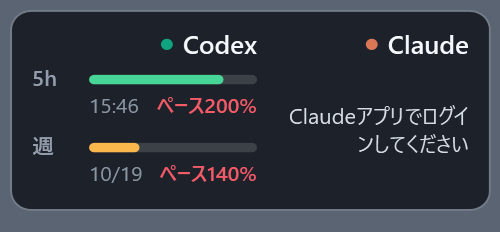
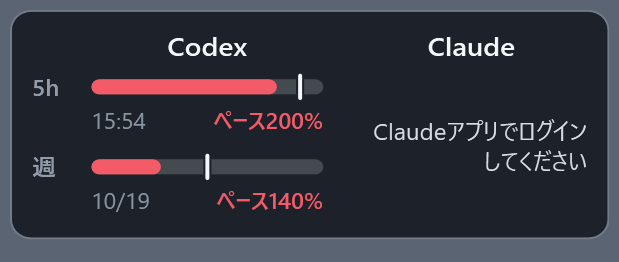
Show remaining usage and pace in one gauge
- Replace the progress bar with a gauge whose fill is the remaining usage
  and whose white marker is the remaining time until reset; the fill is
  colored by pace, so staying right of the marker means on track
- Center the provider titles and drop the colored dot icons
- Enlarge text slightly and widen columns to fit
- Explain the gauge in the tooltip and README, and refresh preview images

diff --git a/CodexUsageWidget.App/MainWindow.xaml b/CodexUsageWidget.App/MainWindow.xaml
@@ -31,16 +31,16 @@
                     <RowDefinition Height="Auto" SharedSizeGroup="Renewal"/>
                 </Grid.RowDefinitions>
                 <TextBlock Grid.Row="1" Text="5h" Foreground="{StaticResource TextLabel}"
-                           FontSize="11" FontWeight="SemiBold" Margin="0,1,0,0"
+                           FontSize="12" FontWeight="SemiBold" Margin="0,3,0,0"
                            Visibility="{Binding Options.ShowFiveHour, Converter={StaticResource BoolToVisibility}}"/>
                 <TextBlock Grid.Row="2" Text="週" Foreground="{StaticResource TextLabel}"
-                           FontSize="11" FontWeight="SemiBold" Margin="0,1,0,0"
+                           FontSize="12" FontWeight="SemiBold" Margin="0,3,0,0"
                            Visibility="{Binding Options.ShowWeekly, Converter={StaticResource BoolToVisibility}}"/>
                 <TextBlock Grid.Row="3" Text="{Binding ModelRowLabel, Mode=OneWay}" Foreground="{StaticResource TextLabel}"
-                           FontSize="11" FontWeight="SemiBold" Margin="0,1,0,0"
+                           FontSize="12" FontWeight="SemiBold" Margin="0,3,0,0"
                            Visibility="{Binding ShowModelRow, Converter={StaticResource BoolToVisibility}}"/>
                 <TextBlock Grid.Row="4" Text="更新" Foreground="{StaticResource TextLabel}"
-                           FontSize="11" Margin="0,3,0,2" VerticalAlignment="Center"
+                           FontSize="12" Margin="0,3,0,2" VerticalAlignment="Center"
                            Visibility="{Binding ShowRenewalRow, Converter={StaticResource BoolToVisibility}}"/>
             </Grid>
 
@@ -52,7 +52,7 @@
                 </ItemsControl.ItemsPanel>
                 <ItemsControl.ItemTemplate>
                     <DataTemplate>
-                        <Grid MinWidth="84" Margin="16,0,0,0" Background="Transparent"
+                        <Grid MinWidth="116" Margin="16,0,0,0" Background="Transparent"
                               Visibility="{Binding IsEnabled, Converter={StaticResource BoolToVisibility}}"
                               ToolTip="{Binding DetailText, Mode=OneWay}" ToolTipService.ShowDuration="30000">
                             <Grid.RowDefinitions>
@@ -63,12 +63,9 @@
                                 <RowDefinition Height="Auto" SharedSizeGroup="Renewal"/>
                             </Grid.RowDefinitions>
 
-                            <StackPanel Orientation="Horizontal" HorizontalAlignment="Right" Margin="0,0,0,1">
-                                <Ellipse Width="6" Height="6" Fill="{Binding BrandBrush}"
-                                         Margin="0,1,5,0" VerticalAlignment="Center"/>
-                                <TextBlock Text="{Binding Name}" Foreground="{StaticResource TextPrimary}"
-                                           FontSize="13" FontWeight="SemiBold"/>
-                            </StackPanel>
+                            <TextBlock Text="{Binding Name}" Foreground="{StaticResource TextPrimary}"
+                                       FontSize="14" FontWeight="SemiBold"
+                                       HorizontalAlignment="Center" Margin="0,0,0,2"/>
 
                             <ContentControl Grid.Row="1" Content="{Binding FiveHour}" Focusable="False"
                                             ContentTemplate="{StaticResource LimitCell}">
@@ -110,7 +107,7 @@
 
                             <!-- 取得できないときは枠2つ分の場所に理由だけを出す -->
                             <TextBlock Grid.Row="1" Grid.RowSpan="2" Text="{Binding StatusMessage, Mode=OneWay}"
-                                       Foreground="#D7DDE5" FontSize="11" TextWrapping="Wrap" MaxWidth="96"
+                                       Foreground="#D7DDE5" FontSize="12" TextWrapping="Wrap" MaxWidth="110"
                                        HorizontalAlignment="Right" TextAlignment="Right"
                                        VerticalAlignment="Center" Margin="0,6,0,6">
                                 <TextBlock.Style>
@@ -146,7 +143,7 @@
                             </ContentControl>
 
                             <TextBlock Grid.Row="4" Text="{Binding RenewalText, Mode=OneWay}"
-                                       Foreground="#D7DDE5" FontSize="11" Margin="0,3,0,2"
+                                       Foreground="#D7DDE5" FontSize="12" Margin="0,3,0,2"
                                        HorizontalAlignment="Right" VerticalAlignment="Center"
                                        Visibility="{Binding DataContext.ShowRenewalRow,
                                                     RelativeSource={RelativeSource AncestorType=Window},

diff --git a/CodexUsageWidget.App/App.xaml b/CodexUsageWidget.App/App.xaml
@@ -1,6 +1,7 @@
-<Application x:Class="CodexUsageWidget.App.App"
+<Application x:Class="CodexUsageWidget.App.App"
              xmlns="http://schemas.microsoft.com/winfx/2006/xaml/presentation"
              xmlns:x="http://schemas.microsoft.com/winfx/2006/xaml"
+             xmlns:controls="clr-namespace:CodexUsageWidget.App.Controls"
              ShutdownMode="OnExplicitShutdown">
     <Application.Resources>
         <FontFamily x:Key="UiFont">Segoe UI, Yu Gothic UI</FontFamily>
@@ -10,34 +11,17 @@
         <SolidColorBrush x:Key="TextLabel" Color="#929CAA"/>
         <SolidColorBrush x:Key="TextMuted" Color="#8A95A3"/>
 
-        <Style x:Key="UsageBar" TargetType="ProgressBar">
-            <Setter Property="Height" Value="5"/>
-            <Setter Property="Minimum" Value="0"/>
-            <Setter Property="Maximum" Value="100"/>
-            <Setter Property="Template">
-                <Setter.Value>
-                    <ControlTemplate TargetType="ProgressBar">
-                        <Grid>
-                            <Border x:Name="PART_Track" Background="#24FFFFFF" CornerRadius="2.5"/>
-                            <Border x:Name="PART_Indicator" Background="{TemplateBinding Foreground}"
-                                    CornerRadius="2.5" HorizontalAlignment="Left"/>
-                        </Grid>
-                    </ControlTemplate>
-                </Setter.Value>
-            </Setter>
-        </Style>
-
-        <!-- 1つの利用枠: 残量バー・（リセット / ペース）。正確な残量%はツールチップ -->
+        <!-- 1つの利用枠: ゲージ（塗り=残り利用量、縦線=残り時間）・（リセット / ペース）。正確な残量%はツールチップ -->
         <DataTemplate x:Key="LimitCell">
-            <StackPanel Margin="0,7,0,6">
-                <ProgressBar Style="{StaticResource UsageBar}"
-                             Value="{Binding RemainingPercent, Mode=OneWay}"
-                             Foreground="{Binding AccentBrush, Mode=OneWay}"/>
-                <Grid Margin="0,4,0,0"
+            <StackPanel Margin="0,4,0,6">
+                <controls:UsageGauge Remaining="{Binding RemainingPercent, Mode=OneWay}"
+                                     TimeRemaining="{Binding TimeRemainingPercent, Mode=OneWay}"
+                                     Fill="{Binding GaugeBrush, Mode=OneWay}"/>
+                <Grid Margin="0,3,0,0"
                       Visibility="{Binding Options.ShowDetailLine, Converter={StaticResource BoolToVisibility}}">
                     <StackPanel Orientation="Horizontal" HorizontalAlignment="Left">
                         <TextBlock Text="{Binding WindowLabel, Mode=OneWay}" Foreground="{StaticResource TextMuted}"
-                                   FontSize="10.5" Margin="0,0,5,0">
+                                   FontSize="11.5" Margin="0,0,5,0">
                             <TextBlock.Style>
                                 <Style TargetType="TextBlock">
                                     <Style.Triggers>
@@ -49,11 +33,11 @@
                             </TextBlock.Style>
                         </TextBlock>
                         <TextBlock Text="{Binding ResetShortText, Mode=OneWay}" Foreground="{StaticResource TextMuted}"
-                                   FontSize="10.5"
+                                   FontSize="11.5"
                                    Visibility="{Binding Options.ShowReset, Converter={StaticResource BoolToVisibility}}"/>
                     </StackPanel>
                     <TextBlock Text="{Binding PaceShortText, Mode=OneWay}" Foreground="{Binding PaceBrush, Mode=OneWay}"
-                               FontSize="10.5" FontWeight="SemiBold" HorizontalAlignment="Right"
+                               FontSize="11.5" FontWeight="SemiBold" HorizontalAlignment="Right"
                                Visibility="{Binding Options.ShowPace, Converter={StaticResource BoolToVisibility}}"/>
                 </Grid>
             </StackPanel>

diff --git a/CodexUsageWidget.App/Controls/UsageGauge.cs b/CodexUsageWidget.App/Controls/UsageGauge.cs
@@ -1,0 +1,76 @@
+using System.Windows;
+using System.Windows.Media;
+using Brush = System.Windows.Media.Brush;
+using Brushes = System.Windows.Media.Brushes;
+using Color = System.Windows.Media.Color;
+using Size = System.Windows.Size;
+using SolidColorBrush = System.Windows.Media.SolidColorBrush;
+
+namespace CodexUsageWidget.App.Controls;
+
+/// <summary>
+/// 残量ゲージ。塗り = 残り利用量、縦線 = 残り時間。
+/// 塗りが縦線より右に伸びていれば、リセットまで今のペースで持つ（余裕）。左で止まっていれば使いすぎ。
+/// </summary>
+public sealed class UsageGauge : FrameworkElement
+{
+    private const double BarHeight = 8;
+    private const double MarkerOverhang = 3;
+    private const double MarkerWidth = 2;
+    private static readonly Brush TrackBrush = Frozen(Color.FromArgb(0x2E, 0xFF, 0xFF, 0xFF));
+    private static readonly Brush MarkerBrush = Frozen(Color.FromRgb(0xF4, 0xF7, 0xFB));
+    private static readonly Brush GapBrush = Frozen(Color.FromRgb(0x1A, 0x1E, 0x25));
+
+    public static readonly DependencyProperty RemainingProperty = DependencyProperty.Register(
+        nameof(Remaining), typeof(double), typeof(UsageGauge),
+        new FrameworkPropertyMetadata(0d, FrameworkPropertyMetadataOptions.AffectsRender));
+
+    public static readonly DependencyProperty TimeRemainingProperty = DependencyProperty.Register(
+        nameof(TimeRemaining), typeof(double), typeof(UsageGauge),
+        new FrameworkPropertyMetadata(double.NaN, FrameworkPropertyMetadataOptions.AffectsRender));
+
+    public static readonly DependencyProperty FillProperty = DependencyProperty.Register(
+        nameof(Fill), typeof(Brush), typeof(UsageGauge),
+        new FrameworkPropertyMetadata(Brushes.Gray, FrameworkPropertyMetadataOptions.AffectsRender));
+
+    /// <summary>残り利用量（0〜100）。</summary>
+    public double Remaining { get => (double)GetValue(RemainingProperty); set => SetValue(RemainingProperty, value); }
+
+    /// <summary>リセットまでの残り時間の割合（0〜100）。不明ならNaNで縦線を出さない。</summary>
+    public double TimeRemaining { get => (double)GetValue(TimeRemainingProperty); set => SetValue(TimeRemainingProperty, value); }
+
+    public Brush Fill { get => (Brush)GetValue(FillProperty); set => SetValue(FillProperty, value); }
+
+    protected override Size MeasureOverride(Size availableSize) => new(0, BarHeight + MarkerOverhang * 2);
+
+    protected override void OnRender(DrawingContext drawingContext)
+    {
+        var width = ActualWidth;
+        if (width <= 0) return;
+
+        var radius = BarHeight / 2;
+        var track = new Rect(0, MarkerOverhang, width, BarHeight);
+        drawingContext.DrawRoundedRectangle(TrackBrush, null, track, radius, radius);
+
+        var fillWidth = width * Math.Clamp(Remaining / 100d, 0d, 1d);
+        if (fillWidth > 0)
+        {
+            var fillRadius = Math.Min(radius, fillWidth / 2);
+            drawingContext.DrawRoundedRectangle(Fill, null, new Rect(0, MarkerOverhang, fillWidth, BarHeight), fillRadius, fillRadius);
+        }
+
+        if (double.IsNaN(TimeRemaining)) return;
+        var x = Math.Clamp(width * Math.Clamp(TimeRemaining / 100d, 0d, 1d), MarkerWidth / 2, width - MarkerWidth / 2);
+        var height = BarHeight + MarkerOverhang * 2;
+        // 塗りの上でも埋もれないよう、背景色の細い隙間で挟んでから白線を引く。
+        drawingContext.DrawRectangle(GapBrush, null, new Rect(x - MarkerWidth / 2 - 1, MarkerOverhang, MarkerWidth + 2, BarHeight));
+        drawingContext.DrawRoundedRectangle(MarkerBrush, null, new Rect(x - MarkerWidth / 2, 0, MarkerWidth, height), 1, 1);
+    }
+
+    private static Brush Frozen(Color color)
+    {
+        var brush = new SolidColorBrush(color);
+        brush.Freeze();
+        return brush;
+    }
+}

diff --git a/CodexUsageWidget.App/ViewModels/LimitViewModel.cs b/CodexUsageWidget.App/ViewModels/LimitViewModel.cs
@@ -1,4 +1,4 @@
-using CodexUsageWidget.App.Models;
+using CodexUsageWidget.App.Models;
 using Brush = System.Windows.Media.Brush;
 using Color = System.Windows.Media.Color;
 using SolidColorBrush = System.Windows.Media.SolidColorBrush;
@@ -18,6 +18,9 @@ public sealed class LimitViewModel : NotifyBase
     private string _percentText = "--%";
     private string _windowLabel = string.Empty;
     private Brush _accentBrush = Neutral;
+    private Brush _gaugeBrush = Neutral;
+    private double _timeRemainingPercent = double.NaN;
+    private int _windowMinutes;
     private string _paceShortText = string.Empty;
     private Brush _paceBrush = Neutral;
     private string _resetShortText = string.Empty;
@@ -35,6 +38,10 @@ public sealed class LimitViewModel : NotifyBase
     /// <summary>行ラベルと長さが違う枠（例: 30日枠）のときだけ出す。</summary>
     public string WindowLabel { get => _windowLabel; private set => Set(ref _windowLabel, value); }
     public Brush AccentBrush { get => _accentBrush; private set => Set(ref _accentBrush, value); }
+    /// <summary>ゲージの塗り色。ペースが分かればペースの色、まだ分からなければ残量の色。</summary>
+    public Brush GaugeBrush { get => _gaugeBrush; private set => Set(ref _gaugeBrush, value); }
+    /// <summary>リセットまでの残り時間の割合（0〜100）。ゲージの縦線の位置。不明ならNaN。</summary>
+    public double TimeRemainingPercent { get => _timeRemainingPercent; private set => Set(ref _timeRemainingPercent, value); }
     public string PaceShortText { get => _paceShortText; private set => Set(ref _paceShortText, value); }
     public Brush PaceBrush { get => _paceBrush; private set => Set(ref _paceBrush, value); }
     /// <summary>24時間以内なら時刻、それより先なら日付だけ。</summary>
@@ -57,7 +64,10 @@ public sealed class LimitViewModel : NotifyBase
             ResetDateText = "--/-- --:--";
             ResetShortText = string.Empty;
             ResetText = "利用枠なし";
+            GaugeBrush = Neutral;
+            TimeRemainingPercent = double.NaN;
             _resetsAt = null;
+            _windowMinutes = 0;
             return;
         }
 
@@ -71,8 +81,11 @@ public sealed class LimitViewModel : NotifyBase
             _ => Bad
         };
         _resetsAt = window.ResetsAt;
+        _windowMinutes = window.WindowMinutes;
         ResetDateText = _resetsAt?.ToLocalTime().ToString("MM/dd HH:mm") ?? "--/-- --:--";
-        UpdatePace(window.ProjectedConsumptionPercent(observedAt));
+        var projected = window.ProjectedConsumptionPercent(observedAt);
+        UpdatePace(projected);
+        GaugeBrush = projected is null ? AccentBrush : PaceBrush;
         UpdateCountdown();
     }
 
@@ -100,10 +113,14 @@ public sealed class LimitViewModel : NotifyBase
         if (_resetsAt is not DateTimeOffset resetsAt)
         {
             if (PercentText != "--%") ResetText = "リセット時刻なし";
+            TimeRemainingPercent = double.NaN;
             return;
         }
 
         var remaining = resetsAt - DateTimeOffset.UtcNow;
+        TimeRemainingPercent = _windowMinutes > 0
+            ? Math.Round(Math.Clamp(remaining.TotalMinutes / _windowMinutes * 100d, 0d, 100d), 1)
+            : double.NaN;
         var local = resetsAt.ToLocalTime();
         ResetShortText = remaining.TotalDays < 1 ? local.ToString("HH:mm") : local.ToString("MM/dd");
         ResetText = remaining <= TimeSpan.Zero ? "更新を確認中…" :

diff --git a/CodexUsageWidget.App/ViewModels/ProviderViewModel.cs b/CodexUsageWidget.App/ViewModels/ProviderViewModel.cs
@@ -1,7 +1,6 @@
-using System.Windows.Threading;
+using System.Windows.Threading;
 using CodexUsageWidget.App.Models;
 using CodexUsageWidget.App.Services;
-using Brush = System.Windows.Media.Brush;
 
 namespace CodexUsageWidget.App.ViewModels;
 
@@ -28,7 +27,6 @@ public sealed class ProviderViewModel : NotifyBase, IDisposable
     public ProviderViewModel(
         ProviderKind kind,
         string name,
-        Brush brandBrush,
         string usagePageUrl,
         IUsageProvider provider,
         TimeSpan refreshInterval,
@@ -36,7 +34,6 @@ public sealed class ProviderViewModel : NotifyBase, IDisposable
     {
         Kind = kind;
         Name = name;
-        BrandBrush = brandBrush;
         UsagePageUrl = usagePageUrl;
         Options = options;
         _provider = provider;
@@ -49,7 +46,6 @@ public sealed class ProviderViewModel : NotifyBase, IDisposable
 
     public ProviderKind Kind { get; }
     public string Name { get; }
-    public Brush BrandBrush { get; }
     public string UsagePageUrl { get; }
     public DisplayOptions Options { get; }
     public LimitViewModel FiveHour { get; }
@@ -156,6 +152,7 @@ public sealed class ProviderViewModel : NotifyBase, IDisposable
             AddLimitLine("5h", FiveHour);
             AddLimitLine("週", Weekly);
             if (ModelLimitName is not null) AddLimitLine($"{ModelLimitName}（週間）", ModelLimit);
+            lines.Add("ゲージ: 塗り = 残り利用量、縦線 = 残り時間。塗りが縦線より右なら余裕");
             lines.Add("ペース: 今のペースを続けた場合の、リセット時点の消費率（100%超で使い切る見込み）");
         }
         return string.Join(Environment.NewLine, lines);

diff --git a/CodexUsageWidget.App/App.xaml.cs b/CodexUsageWidget.App/App.xaml.cs
@@ -1,9 +1,7 @@
-using System.Windows;
+using System.Windows;
 using CodexUsageWidget.App.Models;
 using CodexUsageWidget.App.Services;
 using CodexUsageWidget.App.ViewModels;
-using Color = System.Windows.Media.Color;
-using SolidColorBrush = System.Windows.Media.SolidColorBrush;
 
 namespace CodexUsageWidget.App;
 
@@ -31,7 +29,6 @@ public partial class App : System.Windows.Application
         var codex = new ProviderViewModel(
             ProviderKind.Codex,
             "Codex",
-            new SolidColorBrush(Color.FromRgb(16, 163, 127)),
             "https://chatgpt.com/codex/settings/usage",
             new CodexUsageService(new AppServerUsageProvider(), new LocalSessionUsageProvider()),
             TimeSpan.FromSeconds(Math.Clamp(settings.RefreshSeconds, 15, 300)),
@@ -39,7 +36,6 @@ public partial class App : System.Windows.Application
         var claude = new ProviderViewModel(
             ProviderKind.Claude,
             "Claude",
-            new SolidColorBrush(Color.FromRgb(217, 119, 87)),
             "https://claude.ai/settings/usage",
             new ClaudeUsageProvider(),
             TimeSpan.FromSeconds(Math.Clamp(settings.ClaudeRefreshSeconds, 60, 900)),
